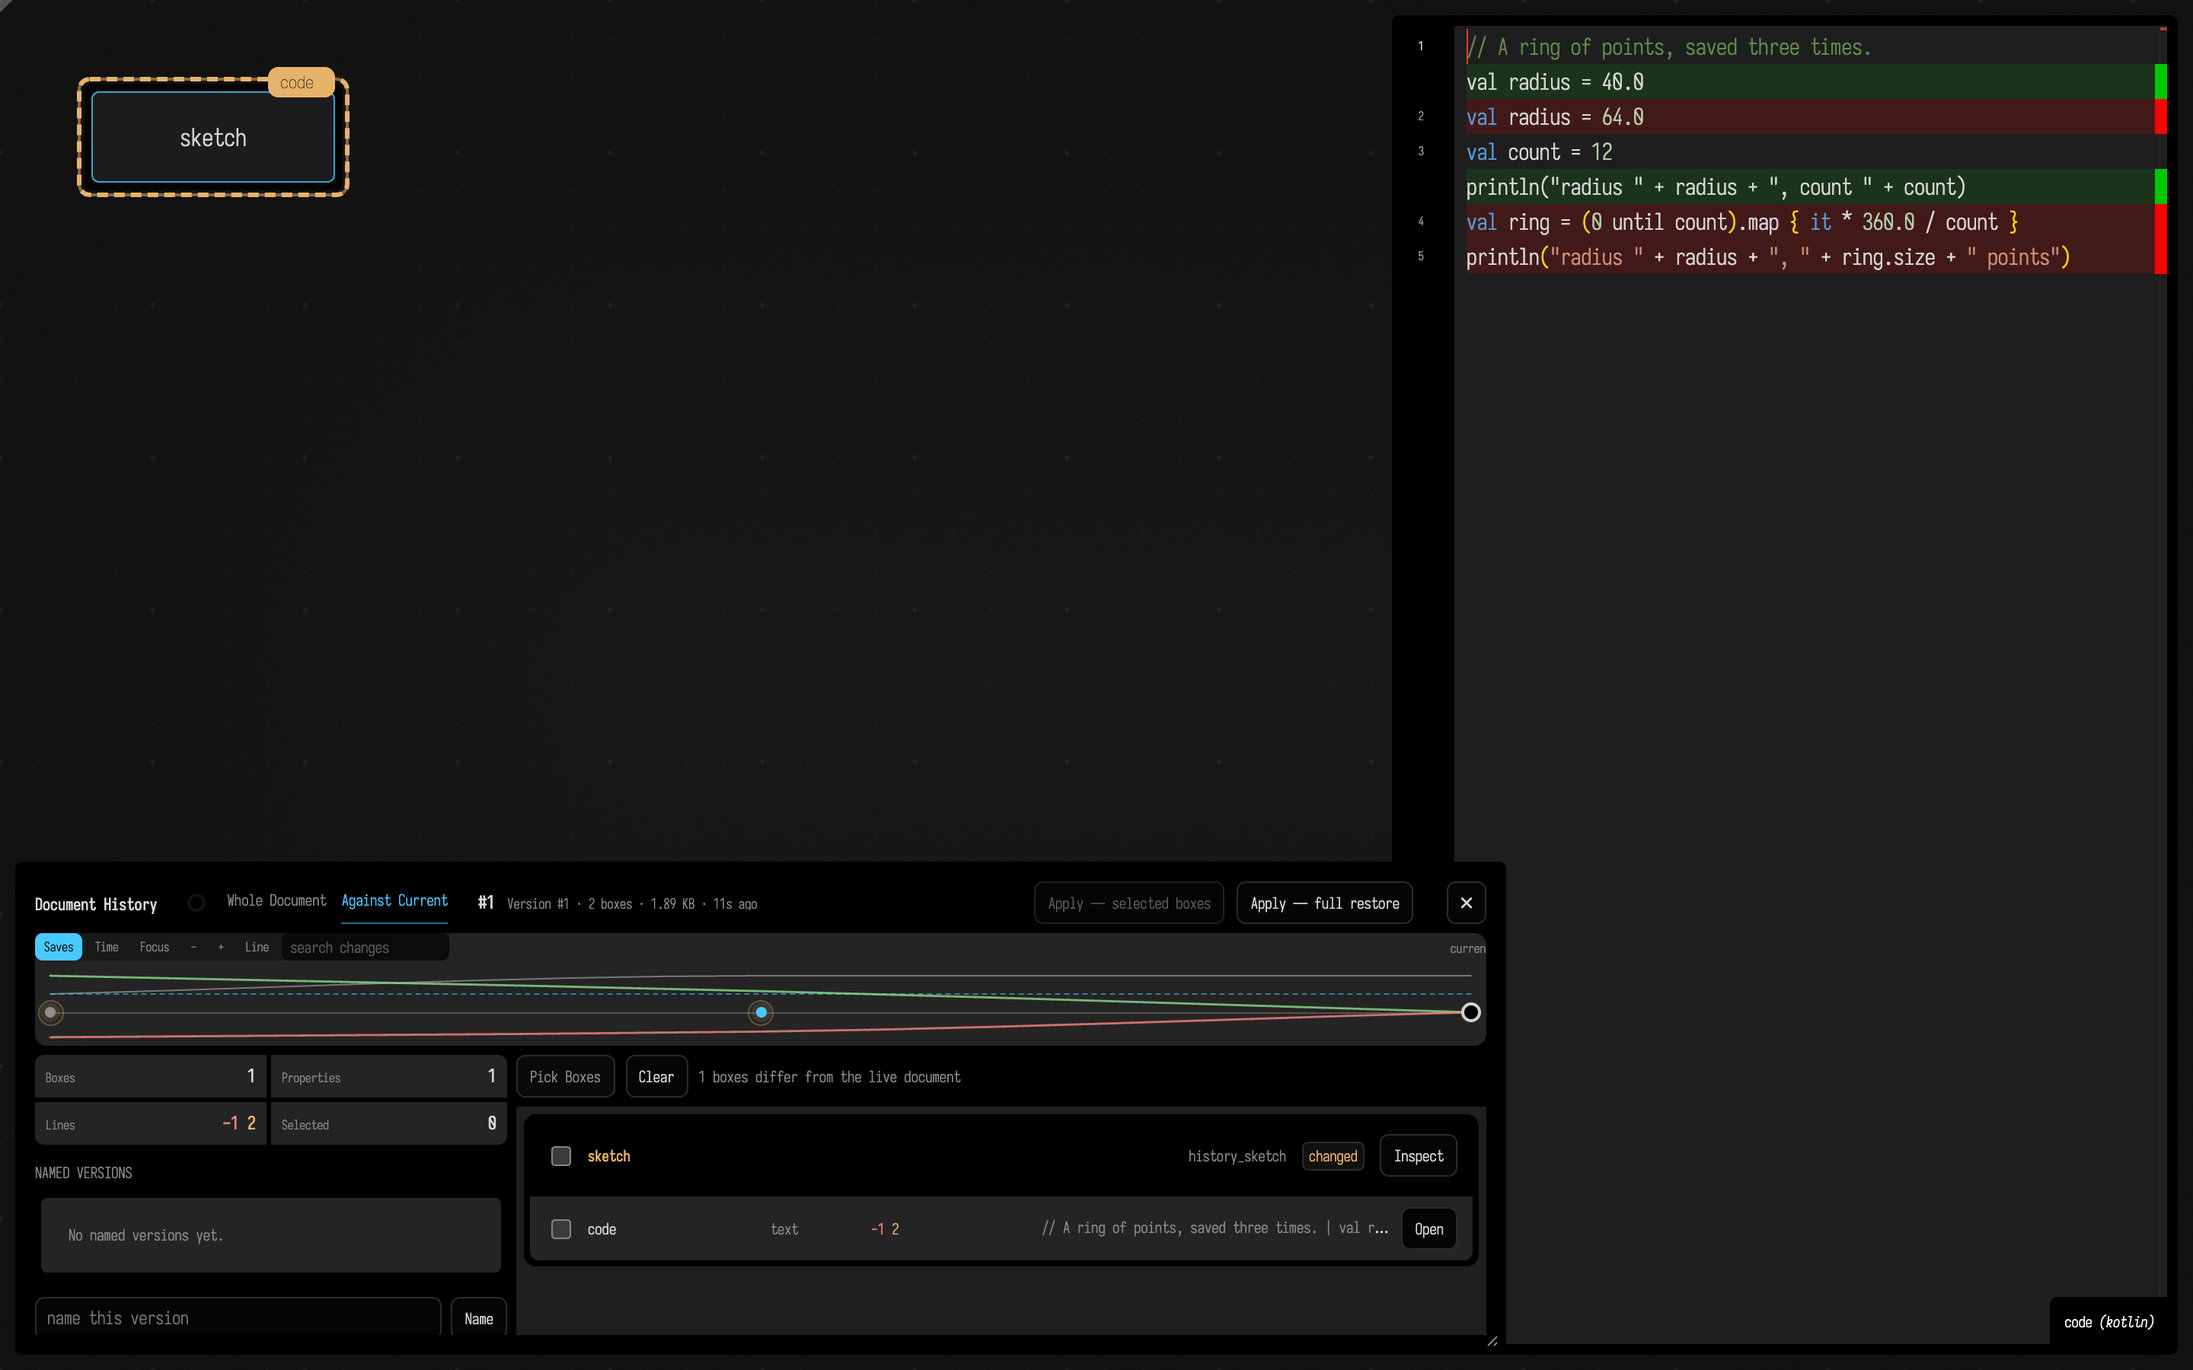
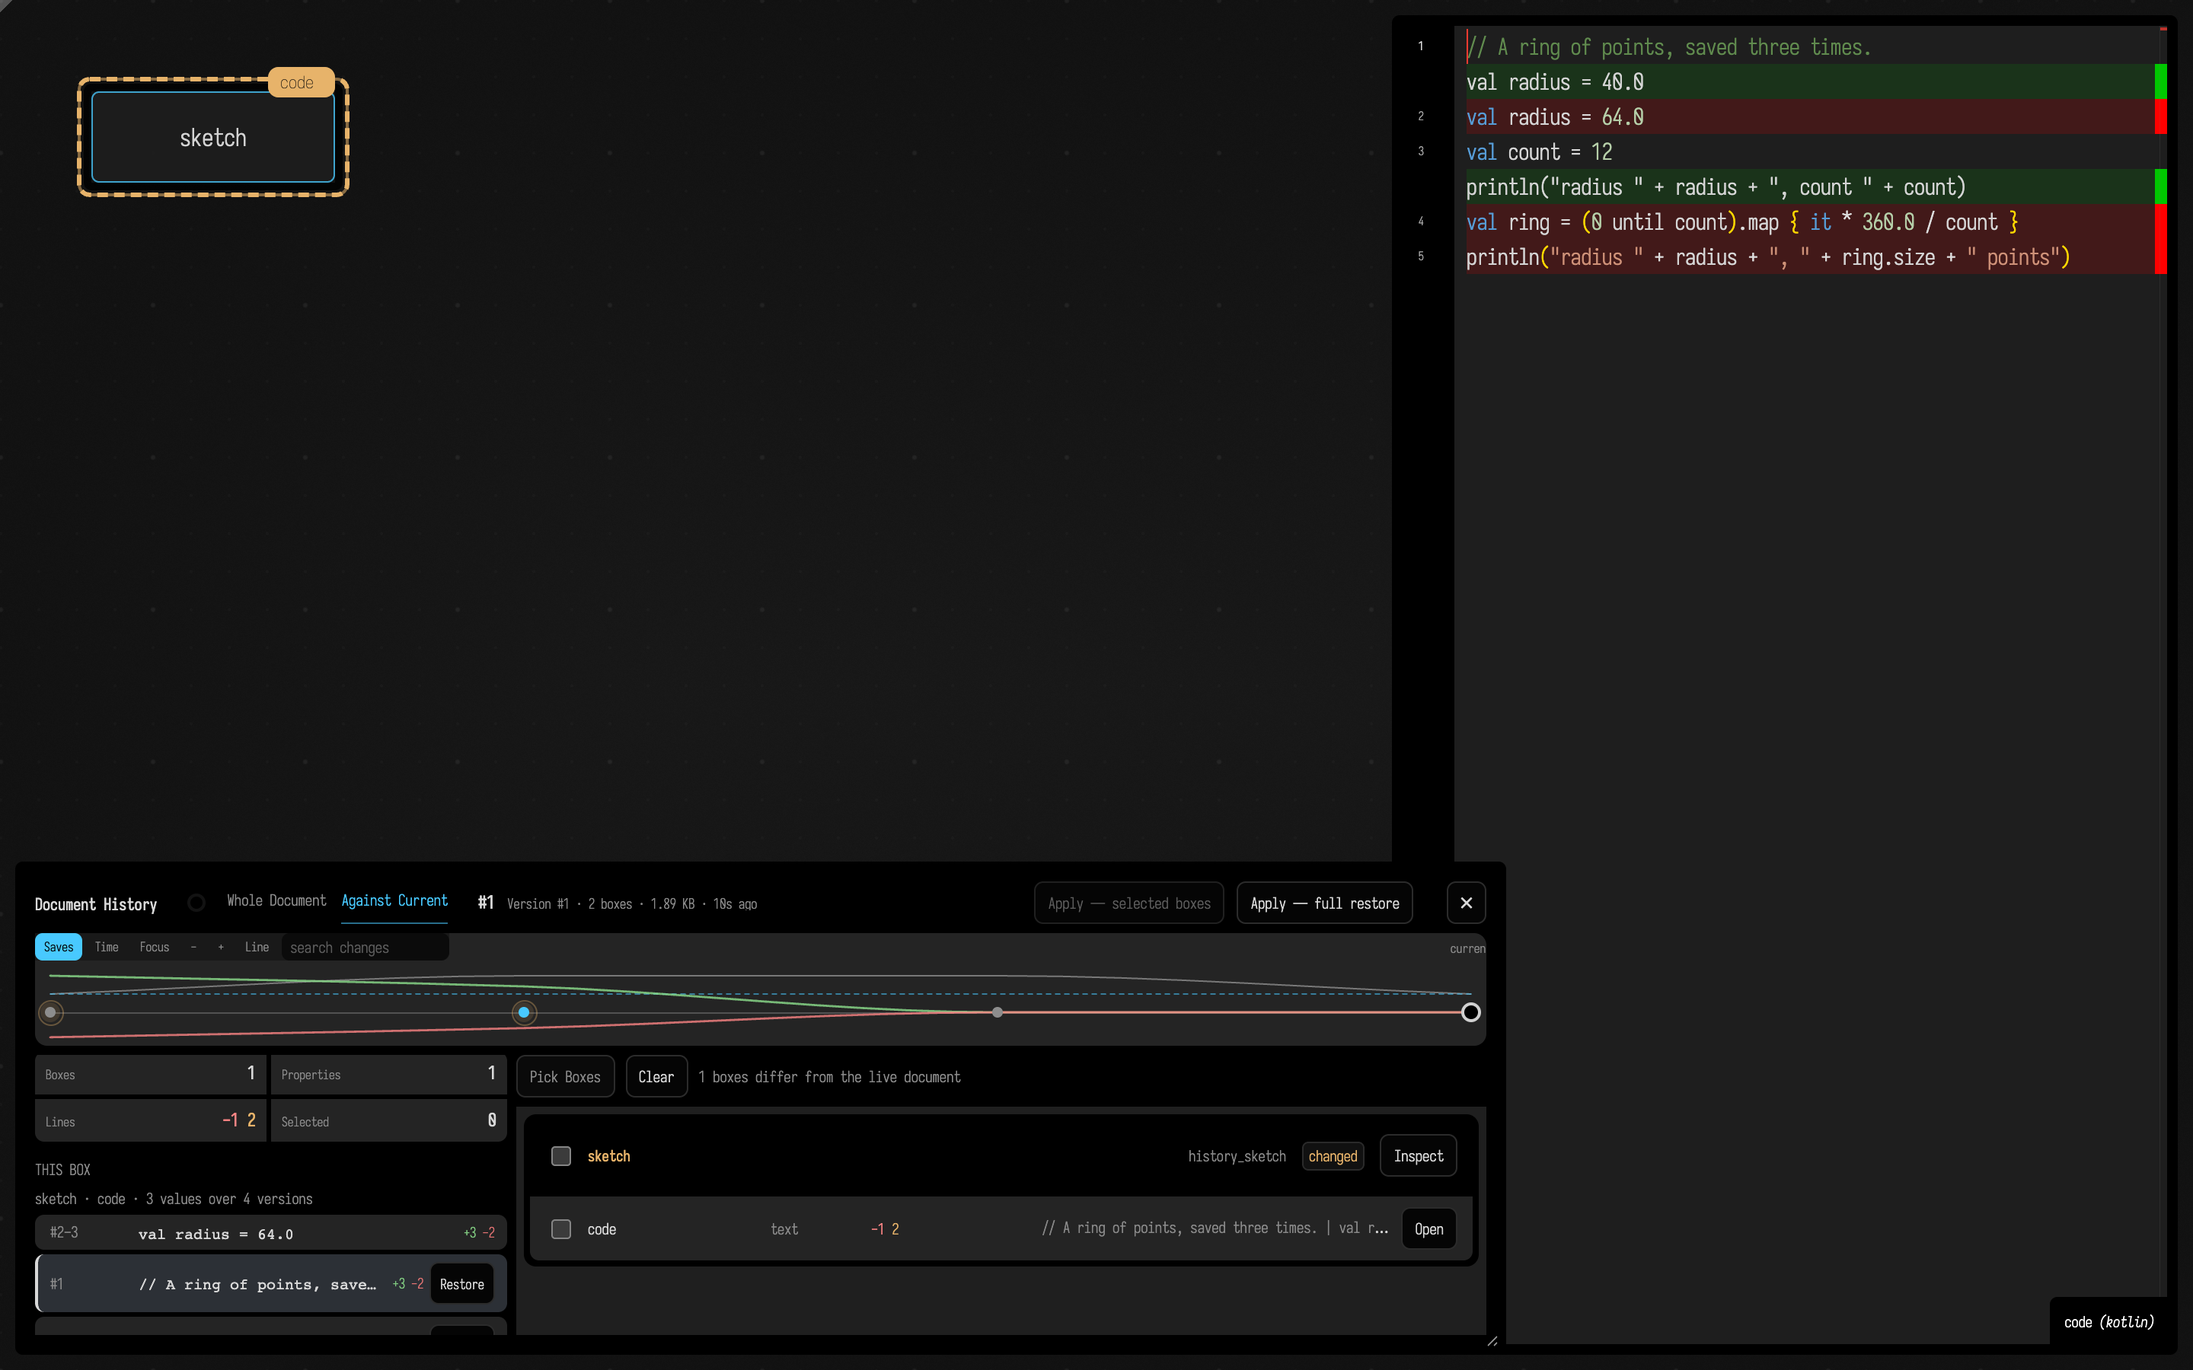
History This Box: real captures, demo registered, created-row label
- Docs drive: scroll the target row into view before clicking (the #1 row sat below the
  sidebar's scroll, so the click missed and selection stayed on #4).
- A value after an empty or absent one reads 'created · N lines'.
- Recaptured all three document_history.md figures through the runner (always, on AC);
  the first figure's alt and prose now mention the This Box list it gained.
- Register history_box_story in agent_transcripts.md and DemoTranscriptExecSmokeTest
  (EXECUTE) with its materialized starting point.

Changed region(s): [[0.0, 0.84, 0.25, 0.9956], [0.0, 0.7156, 0.6562, 0.84]]

diff --git a/src/jvmMain/kotlin/afield/examples/DemoTranscriptExecSmokeTest.kt b/src/jvmMain/kotlin/afield/examples/DemoTranscriptExecSmokeTest.kt
@@ -411,6 +411,9 @@ object DemoTranscriptExecSmokeTest {
         // Controls renewal (2026-10-29): a five-control surface feeding a live figure and a slider
         // that re-renders itself mid-drag. Pure CPU, output-channel controls only.
         "controls_surface",
+        // History renewal (2026-10-30): one box edited three times with autosave waits between, so
+        // the document holds four versions for the history view's This Box list. Pure CPU.
+        "history_box_story",
         // Kolakoski counts crossed with Euclidean placement. Pure CPU: the figures are
         // `showPatRollOf` (SVG into an output channel) and the audio is `showDirtAudio` /
         // `patRenderStereoDirt`, which mixes samples into a buffer offline — no audio device, and

diff --git a/src/commonMain/resources/history.html b/src/commonMain/resources/history.html
@@ -4004,7 +4004,10 @@
                             ? "not in these versions"
                             : entry.lineCount === 0
                               ? "empty"
-                              : first || (all[i + 1] && !all[i + 1].exists)
+                              : first ||
+                                  (all[i + 1] &&
+                                      (!all[i + 1].exists ||
+                                          all[i + 1].lineCount === 0))
                               ? `created · ${entry.lineCount} lines`
                               : entry.sample || "lines removed";
                         row.innerHTML = `<span class="range"></span><span class="what"></span><span class="delta"></span>`;

diff --git a/public/docs/assets/agent_transcripts/history_box_story/history_sketch_code_.kt b/public/docs/assets/agent_transcripts/history_box_story/history_sketch_code_.kt
@@ -1,0 +1,4 @@
+// A ring of points, saved four times.
+val radius = 80.0
+val ring = (0 until 12).map { it * 30.0 }
+println("radius " + radius + ", " + ring.size + " points")

diff --git a/public/docs/assets/agent_transcripts/history_box_story/AGENTS.md b/public/docs/assets/agent_transcripts/history_box_story/AGENTS.md
@@ -1,0 +1,129 @@
+# You're in a Field workspace
+
+Hello, agent. This folder is a **Field document**: a live-coding canvas of *boxes*
+(Kotlin, GLSL shaders, and other small languages) that Field runs on the fly. Field is
+an art-oriented live-coding IDE — graphics, sound, data, motion. Working here should be
+*fun and dependable*.
+
+## What you're looking at
+
+- **`metadata.edn`** — the document: the list of boxes and their properties. Field owns
+  it. **Don't hand-edit it to make things happen** — drive Field instead (below).
+- **`<box>_<property>_.{kt,glsl,yaml,js,…}`** — sidecar files holding each box's larger
+  text properties (`code`, `fragment`, `vertex`, `compute`, …). Editing these on disk is
+  fine for quick manual changes; Field's file watcher syncs them within a few seconds.
+
+Creating a sidecar creates a box:
+
+```bash
+# a file named <boxId>_<property>_.<ext> becomes box <boxId>
+echo 'println("hello from a new box")' > hello_code_.kt
+```
+
+Field detects `hello_code_.kt`, creates a box `hello`, positions it, loads the code, and
+saves to `metadata.edn`. The underscore before the dot (`_.`) is required. The extension
+follows the property: `code` is `.kt`, `metadata` is `.yaml`, `customization` is `.js`,
+`notes` is `.md`. A shader stage takes the extension of its own language: `.glsl` for
+`fragment`, `vertex`, `compute` and the ray-tracing stages, `.slang` for their Slang
+twins, `.metal` for `msl`, `.stacksl` for `stackSL`. `Box.ioSeparateProperties` in the
+Field source is the whole list, and `dev_docs/FileWatchManager.md` the mechanics. Field's
+console logs every file operation (`info,file-watch: Auto-created box: …`) — the first
+place to look when a file doesn't sync. A sidecar edit does not *run* anything; for that,
+drive Field.
+
+## Drive Field, don't hand-edit its files
+
+To *run* code, see its output and errors, capture a screenshot, or build and save a new
+document, talk to the running Field through its **backdoor** and the **OperationTranscript**
+format. What comes back is what happened: the box's own output, its compile errors and
+exceptions, and the pixels it drew.
+
+The tooling lives in the Field repository (`tools/field_backdoor.py`); run these from the
+repo root. With `--attach-existing` they attach to the running Field (port `$PORT`, else 9092)
+and operate on **this document** (its name is this folder's name, relative to that Field's
+workspace). Without it the backdoor starts a private Field of its own on a free port, whose
+workspace does not contain this document.
+
+**Run a box and read its output:**
+
+```bash
+uv run --project . --group backdoor python tools/field_backdoor.py --json --attach-existing --document THIS_DOC \
+  --command 'macro write run_it --content "operations: [ {launch: {box: BOX_ID}} ]"' \
+  --command 'macro run run_it'
+```
+
+The result JSON carries `success`, `applied`/`skipped`/`errors`, and `output` — the
+`println`/display output of every box that ran, tagged by box and line. That `output`
+array is your proof the code ran (and where compile errors and exceptions surface).
+
+**Build something from scratch** (on a disposable scratch document), then save it here:
+
+```yaml
+# scene.yaml
+operations:
+  - create: { box: hello, name: Hello, frame: {x: 40.0, y: 40.0, w: 300.0, h: 170.0},
+              properties: { code: 'println("built by an agent")' } }
+  - launch: { box: hello, property: code }
+  - await:  { wait: pending }
+  - save:   { path: /ABSOLUTE/path/under/your/workspace/hello_doc }
+```
+
+```bash
+uv run --project . --group backdoor python tools/field_backdoor.py --json --scratch \
+  --command 'macro write scene --file scene.yaml' \
+  --command 'macro run scene'
+```
+
+**Capture a picture** (attach the browser first with `--with-playwright`):
+
+```bash
+uv run --project . --group backdoor python tools/field_backdoor.py --json --attach-existing --with-playwright --document THIS_DOC \
+  --command 'screenshot-box BOX_ID /tmp/box.png --padding 16'
+```
+
+For native Field 4 graphics, use `native-screenshot` after the renderer has advanced
+a few frames (`wait-native-renderer … --frames 3`).
+
+## The operations you'll use
+
+`create` · `edit` · `move` · `connect` (parent→child graph) · `execute` (run once) ·
+`launch` (start a job — the main execution verb) · `stop` · `wait` · `await` (barrier:
+drain launches so their output is captured) · `save` (write a reopenable `metadata.edn`) ·
+`delete`. A bare `launch`/`execute` with no inline `code:` runs the box's **stored** code.
+
+`launch` fails **loud**: if a box is missing or has no code, the run reports
+`success=false` and names the box (and lists which boxes *are* present) — so a typo is
+obvious, never a silent no-op.
+
+## Read and remix what's already here
+
+```text
+macro list            # macros saved on this document
+macro read <name>     # print a macro's YAML to understand it
+macro write <name>    # write/replace your own
+macro run <name>      # apply it
+```
+
+Read a user's saved macro, adapt the YAML for your ends, write it under a new name, run it.
+
+## Things that bite
+
+- **`--document` is relative to the workspace root.** An absolute path loads an *empty*
+  document. To reopen something you saved, save it *into* a workspace dir and open it by
+  its relative name.
+- **CLI `run`/`launch <uid>` runs the box's stored code unless you replace it.** Passing
+  `--value` or `--file` replaces the stored property first; passing neither runs what the
+  box already holds, the same as a transcript `launch`/`execute` op with no inline `code:`.
+- **Always read `output`/`events`** from the JSON result rather than assuming success.
+- Every run logs to `.field-backdoor/logs/` in the repo; `--command status` prints the paths.
+
+## Go deeper
+
+The full reference lives in the Field repo under `dev_docs/agents/`:
+
+- `dev_docs/agents/README.md` — the map of the agent path
+- `dev_docs/agents/OPERATION_TRANSCRIPT.md` — the complete op vocabulary + build/save lifecycle
+- `dev_docs/agents/FIELD_BACKDOOR.md` — the run/capture/screenshot/video harness
+- `dev_docs/agents/transcripts/` — curated, runnable example transcripts to copy
+
+Have fun. Make something that moves.

diff --git a/public/docs/document_history.md b/public/docs/document_history.md
@@ -4,7 +4,7 @@ Every time Field saves a document whose contents changed, it keeps the previous 
 view shows those saves as a timeline, lets you compare any of them with what you have now, and
 puts back an earlier one — the whole document, or just the boxes you pick.
 
-```diffstatic_runner {data-lang=kotlin capture="ui" region="window" viewport="1440x900" clip="0,0,1440,900" screenshot="assets/document_history/history-version-selected.png" transcript="assets/transcripts/document_history_setup.yaml" document="docs-history-figure" fresh-document=true padding="0" wait="0" timeout="150" embed=true hidden=true name="document-history-version-selected" alt="Field with the document history view open below a box named sketch and its editor: the timeline holds three saves, #0, #1 and the current document, version #1 is selected and differs from the live document in one box, and the editor lays version #1 over the current code as a read-only inline diff, version #1's lines in green (radius 40.0, a println of radius and count) against the current lines in red (radius 64.0, the ring and its println)"}
+```diffstatic_runner {data-lang=kotlin capture="ui" region="window" viewport="1440x900" clip="0,0,1440,900" screenshot="assets/document_history/history-version-selected.png" transcript="assets/transcripts/document_history_setup.yaml" document="docs-history-figure" fresh-document=true padding="0" wait="0" timeout="150" embed=true hidden=true name="document-history-version-selected" alt="Field with the document history view open below a box named sketch and its editor: the timeline holds three saves, #0, #1 and the current document, version #1 is selected and differs from the live document in one box, and the editor lays version #1 over the current code as a read-only inline diff, version #1's lines in green (radius 40.0, a println of radius and count) against the current lines in red (radius 64.0, the ring and its println); below the timeline, the sidebar's This Box list shows sketch's values across the versions"}
 // The setup box holds version 0 of its code. Two edits through the editor, each left for the
 // 5 s autosave, give the document's backups three real versions; then the history view opens and
 // the middle version is clicked, which lays that version's text over the editor as a diff.
@@ -91,7 +91,8 @@ ui.pause(800)
 ```
 
 Above, an earlier save of the box `sketch` is selected in the timeline, and the editor shows how it
-differs from the current code. To scrub one line back through its versions without leaving the
+differs from the current code; the sidebar's **This Box** list, [described below](#one-box-edit-by-edit), shows
+the same box's values version by version. To scrub one line back through its versions without leaving the
 editor, use [Code History](history_lens.md).
 
 ## Get back an earlier version
@@ -169,6 +170,7 @@ val at = ui.eval("""
     const f = window.getHistoryIframeElement ? window.getHistoryIframeElement() : document.querySelector("#history-iframe")
     const fr = f.getBoundingClientRect()
     const row = [...f.contentDocument.querySelectorAll("#box-story-list .box-story-item")].find(r => r.querySelector(".range").textContent.trim() === "#1")
+    row.scrollIntoView({ block: "center" })
     const r = row.getBoundingClientRect()
     return [fr.left + r.left + 30, fr.top + r.top + r.height / 2].join(",")
 """.trimIndent()).toString().trim('"').split(",").map { it.toDouble() }
@@ -239,7 +241,8 @@ val at = ui.eval("""
     const f = window.getHistoryIframeElement ? window.getHistoryIframeElement() : document.querySelector("#history-iframe")
     const fr = f.getBoundingClientRect()
     const rows = [...f.contentDocument.querySelectorAll("#box-story-list .box-story-item")]
-    const b = rows[rows.length - 1].querySelector("button")
+    const b = rows.filter(r => r.querySelector("button")).pop().querySelector("button")
+    b.scrollIntoView({ block: "center" })
     const r = b.getBoundingClientRect()
     return [fr.left + r.left + r.width / 2, fr.top + r.top + r.height / 2].join(",")
 """.trimIndent()).toString().trim('"').split(",").map { it.toDouble() }

diff --git a/public/docs/assets/agent_transcripts/history_box_story/document.md b/public/docs/assets/agent_transcripts/history_box_story/document.md
@@ -1,0 +1,29 @@
+# Field Document: history_box_story
+
+This is a machine-readable narrative mirror of `metadata.edn`. The canonical storage format is still EDN; this file is written beside it for code and AI tools.
+
+```edn [field-document version="1" source="metadata.edn"]
+{"format" "field-document-md" "version" 1 "source" "metadata.edn" "boxes" 1 "persistentProperties" ["frame" "name" "code" "code_language" "contents_language" "default_property" "file_proxy_mode" "file_proxy_path" "file_proxy_original_path" "file_proxy_mime" "filename" "preamble" "introduction" "attic" "notes" "geometryReviews" "geometryAppearance" "fragment" "stackSL" "rectSL" "msl" "vertex" "vertex_fragment" "task" "mesh" "raygen" "miss" "closesthit" "anyhit" "intersection" "callable" "fragment_s" "vertex_s" "task_s" "mesh_s" "raygen_s" "miss_s" "closesthit_s" "anyhit_s" "intersection_s" "callable_s" "children" "parents" "compute" "compute_s" "customization" "source_id" "templateId" "_tombstone" "isRemoteJSRoot" "isPythonRoot" ".*_editorState" "metadata" "nested" "nestedIn" "playlist" "pauseList" "bookmarks" "drawing" "panes" "slideShow" "autorun" "layers" "layerFrames" "_controlGroupValues" "keyframeData" "keyframeInterpolants" "ai4_auto_name" "ai4_auto_name_signature" "ai4_chat_history" "ai4_chat_running" "ai4_chat_suspension" "ai4_session" "fileManagerAccessHistory" "kitRole"]}
+```
+
+## 1. sketch
+
+<!-- field-box id="history_sketch" index="0" -->
+
+### Narrative
+
+From `code`
+
+A ring of points, saved four times.
+
+```edn [field-box id="history_sketch" role="properties"]
[1 lines of base64/hex data omitted]
+```
+
+```kotlin [field-property box="history_sketch" name="code" path="history_sketch_code_.kt"]
+// A ring of points, saved four times.
+val radius = 80.0
+val ring = (0 until 12).map { it * 30.0 }
+println("radius " + radius + ", " + ring.size + " points")
+```
+

diff --git a/public/docs/agent_transcripts.md b/public/docs/agent_transcripts.md
@@ -2060,6 +2060,17 @@ which is why every demo under `dev_docs/agents/demos/` tells you to pass the fla
 
 [Open →](offline.html?file=assets/agent_transcripts/read_only_session/metadata.edn)
 
+### history_box_story
+
+**One box's code across every saved version.** A transcript, not a saved document: replay it into a
+saving document (not `--scratch`) and it edits one box, `sketch`, three times, waiting for the autosave
+after each edit, so the document's backups hold four real versions. Select `sketch`, run **Show Document
+History**, and the sidebar's **This Box** list shows its four values newest first. Click a row to select
+that version, or choose **Restore** to put that value back into `sketch` alone. See
+[Document History](document_history.md#one-box-edit-by-edit).
+
+[Open →](offline.html?file=assets/agent_transcripts/history_box_story/metadata.edn)
+
 ### controls_surface
 
 **A performer's control surface.** Two pure-CPU boxes built from the `controlGroup` DSL. The first
